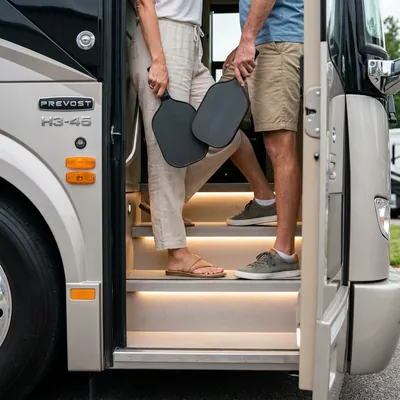
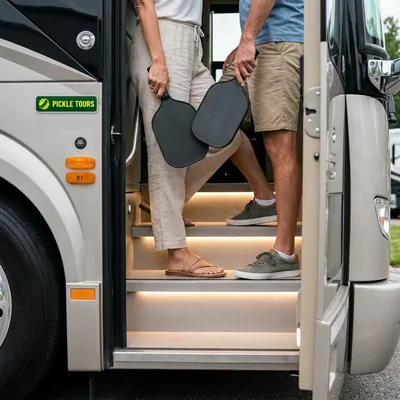
Brand the coach nameplate; retire third-party mark from the boarding photo
tools/brand-coach-badge.py replaces the manufacturer nameplate with a Pickle
Tours plaque (Pickle Green field, chrome edge, mark in Optic Yellow, wordmark
in Barlow Condensed Bold) and paints out the model number using per-row panel
sampling with matched grain. Output is a new master; the original is untouched.

build-images.sh now sources coach-boarding from picklebus-branded.png.

Changed region(s): [[0.09, 0.24, 0.27, 0.33]]

diff --git a/tools/brand-coach-badge.py b/tools/brand-coach-badge.py
@@ -1,0 +1,161 @@
+#!/Users/ibmike/.venvs/racon/bin/python3
+"""
+brand-coach-badge.py — replace the third-party coach nameplate in picklebus.png
+with a Pickle Tours badge.
+
+Two operations on the coach side panel:
+  1. The lower model-number text is painted out using per-row colour sampled
+     from clean panel to its left, with matched film grain and a feathered
+     edge so the repair does not read as a flat patch.
+  2. The manufacturer nameplate is covered by a Pickle Tours plaque — Pickle
+     Green field, chrome-style edge, ball-and-cucumber mark in Optic Yellow,
+     wordmark in Barlow Condensed Bold.
+
+Output is a new master; the original file is never modified.
+Run:  ./tools/brand-coach-badge.py
+"""
+
+import subprocess, sys, os
+from PIL import Image, ImageDraw, ImageFilter, ImageFont
+import numpy as np
+
+REPO = os.path.dirname(os.path.dirname(os.path.abspath(__file__)))
+MKTG = "/Users/ibmike/Desktop/N&Co/2 - pickle-tours/2-Marketing/Route66"
+SRC = f"{MKTG}/picklebus.png"
+OUT = f"{MKTG}/picklebus-branded.png"
+MARK_SVG = f"{REPO}/assets/pickle-tours-mark.svg"
+FONT = "/tmp/BarlowCondensed-Bold.ttf"
+
+GREEN = (4, 66, 29)
+OPTIC = (231, 251, 32)
+CHROME = (214, 211, 200)
+
+# measured regions in the 1024x1024 master
+NAMEPLATE = (90, 244, 250, 288)      # plaque footprint (covers the badge)
+MODELTEXT = (94, 289, 246, 332)      # region to paint out
+SAMPLE_X = (58, 92)                  # clean panel column used for row colour
+
+SS = 4  # supersample factor for the plaque
+
+
+def ensure_font():
+    """Barlow Condensed Bold is a webfont on this site, not a system font."""
+    if not os.path.exists(FONT):
+        url = ("https://github.com/google/fonts/raw/main/ofl/"
+               "barlowcondensed/BarlowCondensed-Bold.ttf")
+        subprocess.run(["curl", "-sL", "-o", FONT, url], check=True)
+    return FONT
+
+
+def paint_out(img):
+    """Remove the model text by rebuilding panel paint row by row."""
+    a = np.array(img).astype(np.float32)
+    x0, y0, x1, y1 = MODELTEXT
+
+    # grain profile from a clean patch (residual after removing row means)
+    clean = a[300:330, 40:88, :3]
+    grain = float((clean - clean.mean(axis=1, keepdims=True)).std())
+
+    fill = a.copy()
+    rng = np.random.default_rng(66)
+    for y in range(y0, y1):
+        base = np.median(a[y, SAMPLE_X[0]:SAMPLE_X[1], :3], axis=0)
+        # panel brightens very slightly to the right; hold a gentle ramp
+        ramp = np.linspace(0.0, 3.0, x1 - x0)[:, None]
+        row = base[None, :] + ramp + rng.normal(0, grain, (x1 - x0, 3))
+        fill[y, x0:x1, :3] = row
+
+    # feathered mask so the repair edge is not a hard rectangle
+    m = Image.new("L", img.size, 0)
+    ImageDraw.Draw(m).rectangle([x0, y0, x1 - 1, y1 - 1], fill=255)
+    m = m.filter(ImageFilter.GaussianBlur(3))
+    mask = (np.array(m).astype(np.float32) / 255.0)[..., None]
+
+    out = a * (1 - mask) + fill * mask
+    return Image.fromarray(np.clip(out, 0, 255).astype(np.uint8))
+
+
+def build_plaque(w, h):
+    """Pickle Tours nameplate, rendered at SS scale then downsampled."""
+    W, H = w * SS, h * SS
+    p = Image.new("RGBA", (W, H), (0, 0, 0, 0))
+    d = ImageDraw.Draw(p)
+    r = 9 * SS
+
+    d.rounded_rectangle([0, 0, W - 1, H - 1], radius=r, fill=GREEN + (255,),
+                        outline=CHROME + (255,), width=2 * SS)
+
+    # soft top highlight — the panel is lit from above
+    hl = Image.new("RGBA", (W, H), (0, 0, 0, 0))
+    hd = ImageDraw.Draw(hl)
+    for i in range(H // 2):
+        alpha = int(26 * (1 - i / (H / 2)))
+        hd.line([(0, i), (W, i)], fill=(255, 255, 255, alpha))
+    hlm = Image.new("L", (W, H), 0)
+    ImageDraw.Draw(hlm).rounded_rectangle([0, 0, W - 1, H - 1], radius=r, fill=255)
+    p.alpha_composite(Image.composite(hl, Image.new("RGBA", (W, H), (0, 0, 0, 0)), hlm))
+
+    # mark
+    mh = int(H * 0.66)
+    subprocess.run(["rsvg-convert", "-h", str(mh), MARK_SVG, "-o", "/tmp/_mark.png"],
+                   check=True)
+    mark = Image.open("/tmp/_mark.png").convert("RGBA")
+    mx = int(W * 0.055)
+    my = (H - mark.height) // 2
+    p.alpha_composite(mark, (mx, my))
+
+    # wordmark, auto-fitted to the space remaining
+    tx = mx + mark.width + int(W * 0.045)
+    avail = W - tx - int(W * 0.055)
+    text = "PICKLE TOURS"
+    size = 4
+    while True:
+        f = ImageFont.truetype(FONT, size + 1)
+        if d.textlength(text, font=f) > avail or size > H:
+            break
+        size += 1
+    f = ImageFont.truetype(FONT, size)
+    tw = d.textlength(text, font=f)
+    bbox = d.textbbox((0, 0), text, font=f)
+    d.text((tx + (avail - tw) / 2, (H - (bbox[3] - bbox[1])) / 2 - bbox[1]),
+           text, font=f, fill=OPTIC + (255,))
+
+    return p.resize((w, h), Image.LANCZOS)
+
+
+def main():
+    if not os.path.exists(SRC):
+        sys.exit(f"source not found: {SRC}")
+    img = Image.open(SRC).convert("RGB")
+    ensure_font()
+    img = paint_out(img)
+
+    x0, y0, x1, y1 = NAMEPLATE
+    w, h = x1 - x0, y1 - y0
+    plaque = build_plaque(w, h)
+
+    # photographic integration: the plaque is vector-crisp and the plate around
+    # it is not. Soften to the photo's own edge acuity and match its grain,
+    # otherwise it reads as a sticker laid on top of the picture.
+    plaque = plaque.filter(ImageFilter.GaussianBlur(0.5))
+    pa = np.array(plaque).astype(np.float32)
+    rng = np.random.default_rng(66)
+    pa[..., :3] += rng.normal(0, 2.4, pa[..., :3].shape)
+    plaque = Image.fromarray(np.clip(pa, 0, 255).astype(np.uint8))
+
+    # drop shadow, down and right to match the scene light
+    sh = Image.new("RGBA", img.size, (0, 0, 0, 0))
+    ImageDraw.Draw(sh).rounded_rectangle([x0 + 2, y0 + 3, x1 + 1, y1 + 2],
+                                         radius=9, fill=(0, 0, 0, 90))
+    sh = sh.filter(ImageFilter.GaussianBlur(2.5))
+
+    canvas = img.convert("RGBA")
+    canvas.alpha_composite(sh)
+    canvas.alpha_composite(plaque, (x0, y0))
+    canvas.convert("RGB").save(OUT)
+    print(f"wrote {OUT}")
+    print(f"plaque {w}x{h} at ({x0},{y0})  wordmark fitted")
+
+
+if __name__ == "__main__":
+    main()
